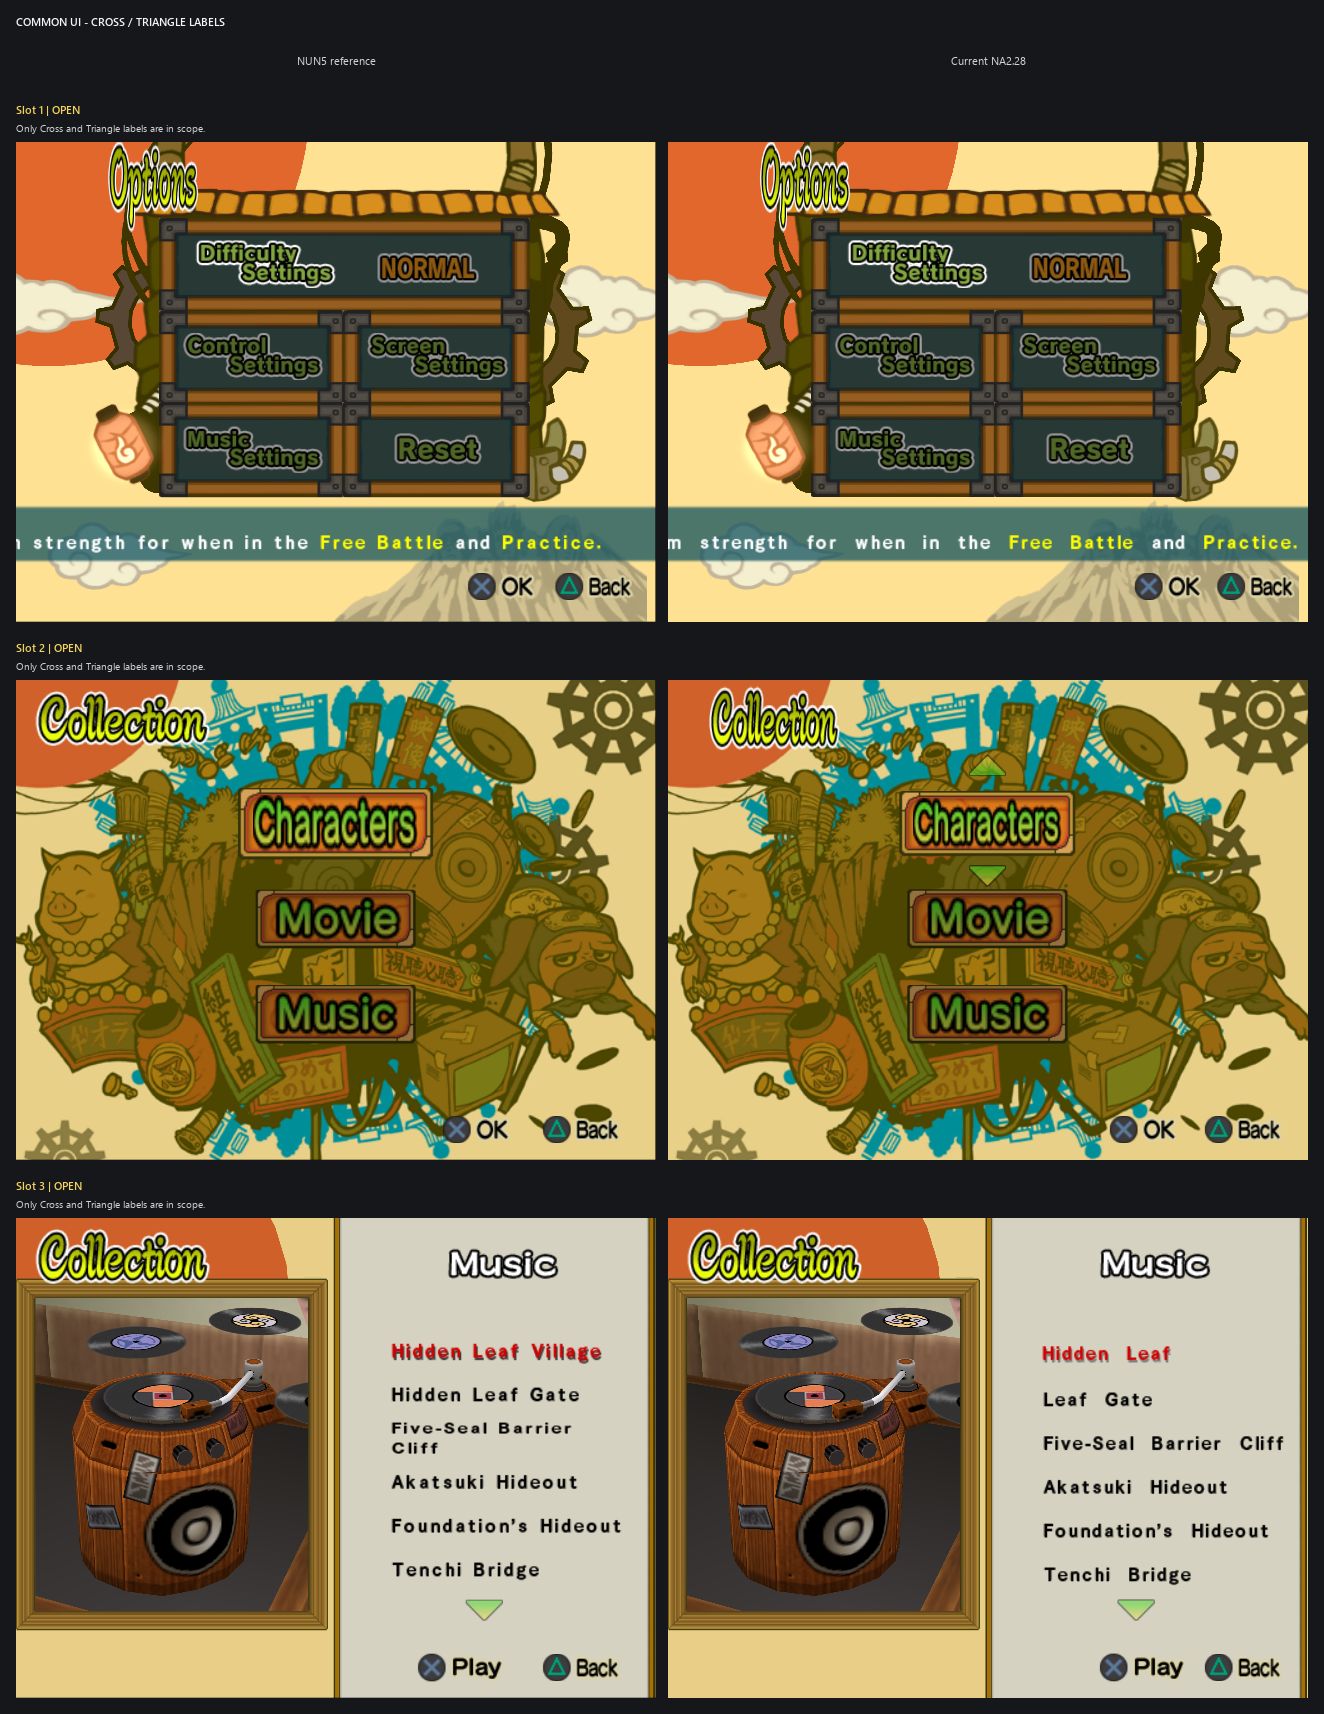
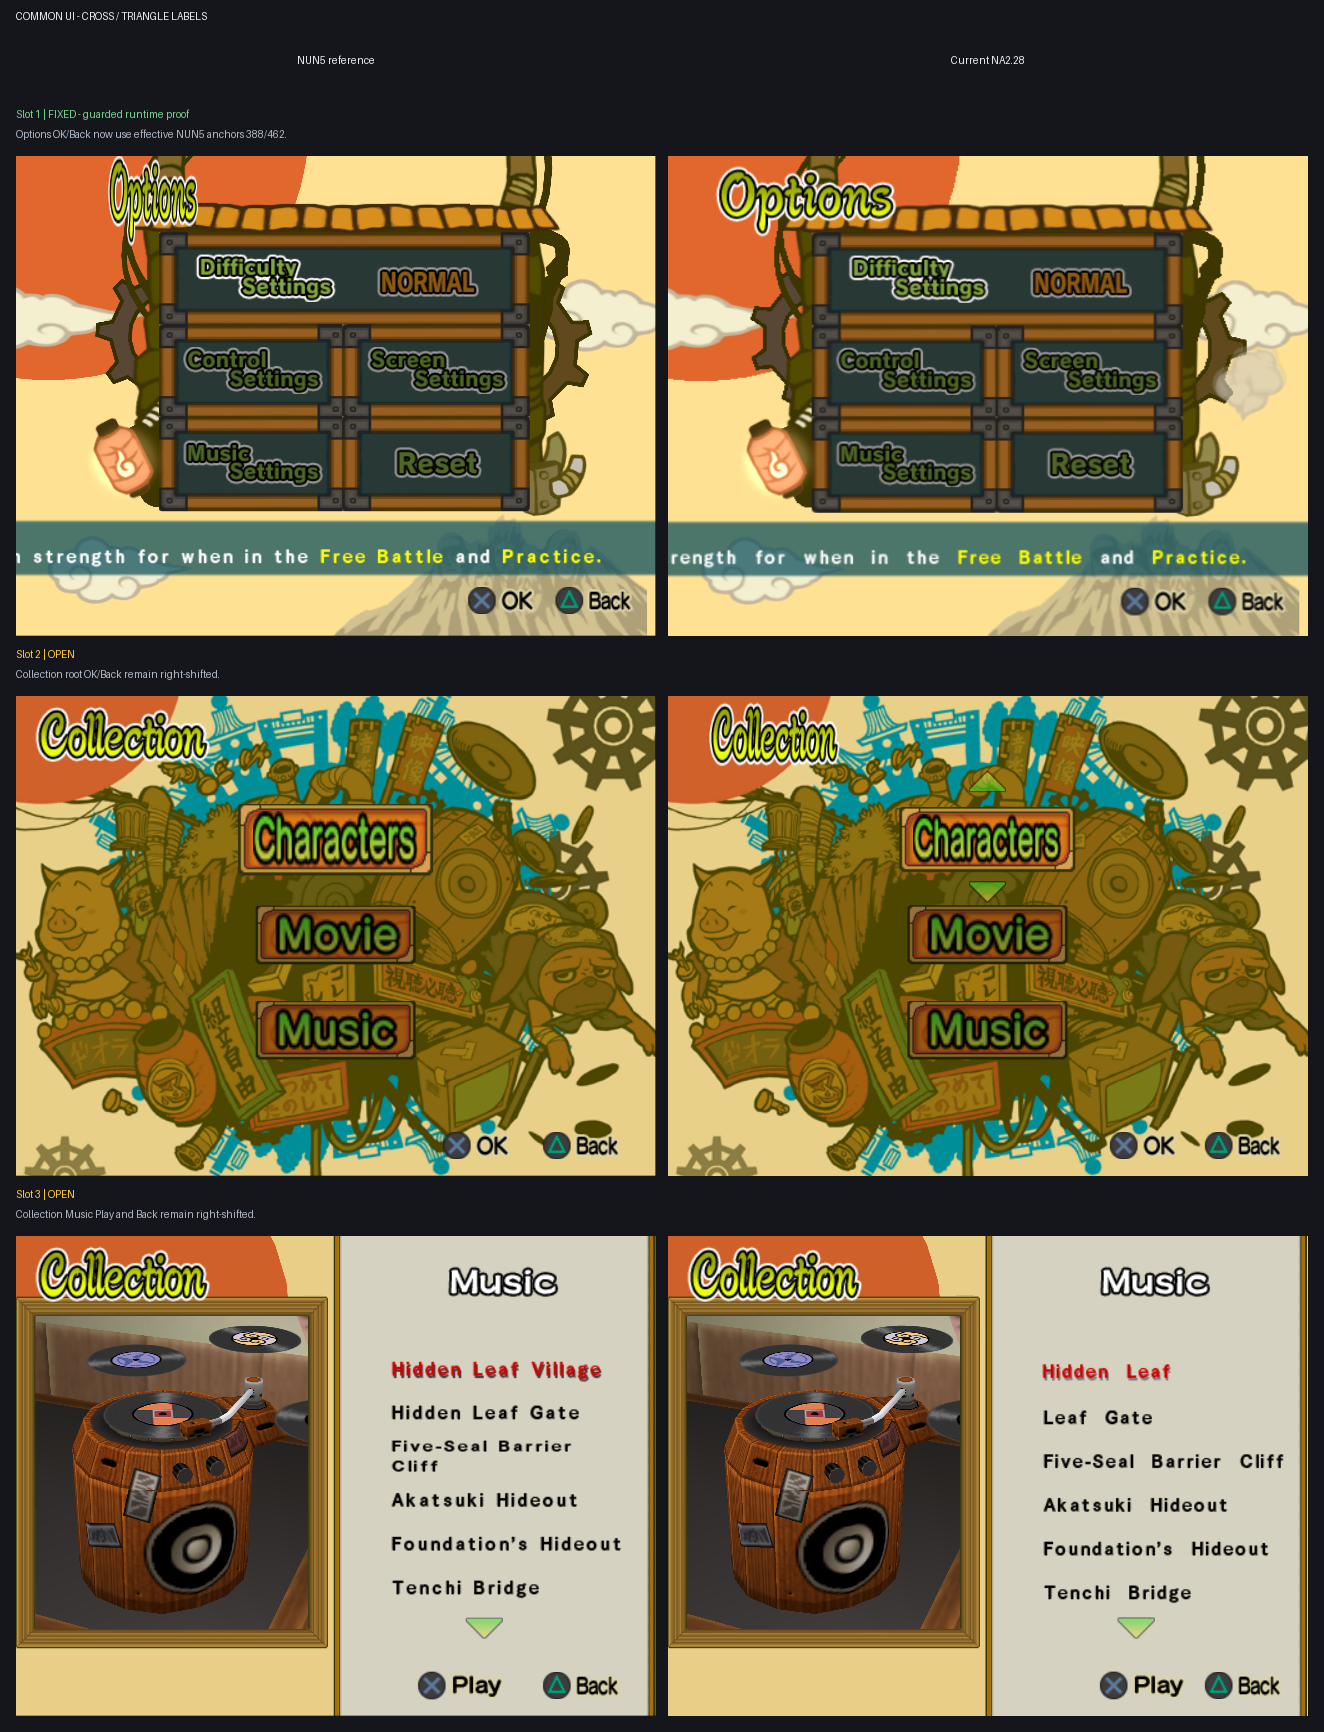
[UI Translation] Align Options common prompts

diff --git a/na2_patcher/tests/test_texture_patcher.py b/na2_patcher/tests/test_texture_patcher.py
@@ -1369,7 +1369,7 @@ class UiTextureTests(unittest.TestCase):
             ["8243023C", "C842023C"],
         )
 
-    def test_common_prompt_records_are_exact_nun5_copies(self) -> None:
+    def test_shared_common_prompt_data_and_options_anchors(self) -> None:
         repository = Path(__file__).resolve().parents[2]
         package = binary_patcher.load_package(
             repository
@@ -1384,12 +1384,24 @@ class UiTextureTests(unittest.TestCase):
                 "UI-ELF-008-02",
                 "UI-ELF-008-03",
                 "UI-ELF-008-04",
+                "UI-ELF-008-05",
+                "UI-ELF-008-06",
             ],
         )
-        self.assertTrue(all(item.operation == "copy" for item in edits))
+        self.assertEqual(
+            [item.operation for item in edits],
+            ["copy", "copy", "copy", "copy", "replace", "replace"],
+        )
         self.assertEqual(
             [item.destination_offset for item in edits],
-            [0x4D47C0, 0x4D47B0, 0x4D47B8, 0x4D47A0],
+            [
+                0x4D47C0,
+                0x4D47B0,
+                0x4D47B8,
+                0x4D47A0,
+                0x28C878,
+                0x28C89C,
+            ],
         )
         self.assertEqual(
             [item.expected_hex for item in edits],
@@ -1398,15 +1410,17 @@ class UiTextureTests(unittest.TestCase):
                 "0100310072001600",
                 "010049002A001600",
                 "2D00490046001600",
+                "C843023C",
+                "EB43023C",
             ],
         )
         self.assertEqual(
             [item.source_target_id for item in edits],
-            ["nun5_elf", "nun5_elf", "nun5_elf", "nun5_elf"],
+            ["nun5_elf", "nun5_elf", "nun5_elf", "nun5_elf", "", ""],
         )
         self.assertEqual(
             [item.source_offset for item in edits],
-            [0x4DEA20, 0x4DEA10, 0x4DEA18, 0x4DEA00],
+            [0x4DEA20, 0x4DEA10, 0x4DEA18, 0x4DEA00, None, None],
         )
         self.assertEqual(
             [item.source_expected_hex for item in edits],
@@ -1415,7 +1429,13 @@ class UiTextureTests(unittest.TestCase):
                 "0100310038001600",
                 "0000000000000000",
                 "2D00490042001600",
+                "",
+                "",
             ],
+        )
+        self.assertEqual(
+            [item.replacement_hex for item in edits[-2:]],
+            ["C243023C", "E743023C"],
         )
 
     def test_shared_options_select_anchors_are_exact_nun5_copies(self) -> None:
@@ -1574,14 +1594,14 @@ class UiTextureTests(unittest.TestCase):
             if edit.operation == "replace" and edit not in stage_scales
         ]
 
-        self.assertEqual(len(ui_edits), 277)
-        self.assertEqual(operations, {"copy": 99, "replace": 178})
+        self.assertEqual(len(ui_edits), 279)
+        self.assertEqual(operations, {"copy": 99, "replace": 180})
         self.assertEqual(
             copy_sources,
             {"nun5_elf": 64, "nun5_btl": 26, "nun5_etc": 9},
         )
         self.assertEqual(len(stage_scales), 24)
-        self.assertEqual(len(adaptations), 154)
+        self.assertEqual(len(adaptations), 156)
 
     def test_plan_applies_only_inside_the_selected_cvm_member(self) -> None:
         result = self.result("battlegauge")

diff --git a/docs/knowledge/localization/ui/options.md b/docs/knowledge/localization/ui/options.md
@@ -69,6 +69,29 @@ NUN5's localized records total 80 logical pixels:
 static slots. This preserves NA2's object ABI and compositor code while making
 every shared case-4 caller use the same geometry as NUN5.
 
+## Options-root OK and Back anchors
+
+The Options-root draw uses the same common-prompt compositor but supplies its
+OK and Back anchors from `FUN_0038c5f0`:
+
+| Prompt | NA2 runtime / file offset | NUN5 runtime / file offset | Effective NUN5 X |
+| --- | --- | --- | ---: |
+| OK | `0x0038C778` / `0x28C878` | `0x0039E18C` / `0x29E30C` | `400 - 12 = 388` |
+| Back | `0x0038C79C` / `0x28C89C` | `0x0039E1C0` / `0x29E340` | `470 - 8 = 462` |
+
+NA2 loads X=`400` and X=`470` directly with `C843023C` and `EB43023C`.
+The NUN5 homolog loads the same nominal values, converts its shared signed
+regional globals, and adds `-12` for OK and `-8` for Back before calling
+`FUN_0038bb10`. Those additions do not exist in the NA2 caller, so copying the
+nominal donor loads would not move either prompt.
+
+`UI-ELF-008` therefore stores the equivalent NA2 values X=`388`
+(`C243023C`) and X=`462` (`E743023C`) at the two guarded call sites. These are
+authored ABI ports, not literal donor copies. A task-owned slot-1 savestate
+patched with only those two words rendered the complete Cross/OK and
+Triangle/Back groups at the NUN5 positions. The existing Cancel records,
+option values, input handling, and text/font rendering were unchanged.
+
 ## Shared Controls and Music Select legend
 
 The Controls and Music Options footer functions have the same regional
@@ -169,6 +192,10 @@ footer on 2026-07-26. Confidence is **verified**.
   resident records. The hidden task-owned clone rendered Current NA2 bounds
   `165..259,412..438`, versus NUN5 `164..258,411..437`. The one-pixel phase
   difference is normal prompt pulsation.
+- A separate guarded slot-1 proof changed only the Options-root OK/Back load
+  words to their effective NUN5 anchors. Both groups match the reference; this
+  is the same regional-offset family as Mode Select and Settings, but a
+  distinct caller pair rather than a duplicate write.
 - The unrelated X/Y text spacing and the separate OK prompt were deliberately
   untouched.
 - A first guarded Music Options probe copied NUN5 common-prompt records 0 and

diff --git a/na2_patcher/features/localization/README.md b/na2_patcher/features/localization/README.md
@@ -1617,7 +1617,17 @@ one pixel of NUN5 in both axes, consistent with normal pulse timing.
 Battle Results exposed the same shared compositor's record 2: NA2 retained a
 70-pixel Next label while NUN5 uses the complete 66-pixel English record.
 The fourth edit copies that exact NUN5 record; `UI-BTL-016` supplies its NUN5
-screen anchor. The separate OK prompt and text/font rendering remain untouched.
+screen anchor.
+
+The Options-root caller also exposes the same regional footer-anchor difference
+already proven on Mode Select and the two Settings screens. NUN5 loads nominal
+OK/Back X=`400`/`470` and applies `-12`/`-8` before calling the shared
+compositor; NA2 calls it with the unadjusted values. Two authored
+same-register ports use the equivalent effective X=`388`/`462` values at NA2
+ELF offsets `0x28C878` and `0x28C89C`. A guarded task-owned slot-1 render
+matches the NUN5 prompt positions without changing the accepted Cancel
+geometry or any text/font behavior.
+
 Exact mappings, reconstruction, side effects, and runtime evidence are
 preserved in `docs/knowledge/localization/ui/options.md` and
 `docs/knowledge/localization/ui/battle.md`.

diff --git a/docs/workstreams/ui_translation/plan.md b/docs/workstreams/ui_translation/plan.md
@@ -544,7 +544,9 @@ pair and active mismatch-list entry were then removed under workstream policy.
 
 The remaining maintained mismatch list contains Battle Results screen 2
 (red rank text vertically misregistered inside the stamp), Character Items
-transition behavior, and the Cross/Triangle-label batch. The rejected
+transition behavior, and the Cross/Triangle-label batch. Within that batch,
+the Options-root Slot 1 caller now uses the proven effective NUN5 OK/Back
+anchors X=`388`/`462`; Slots 2-5 remain open. The rejected
 rank-label Y-compensation trial and exact pixel/object evidence are preserved
 in `docs/knowledge/localization/ui/battle.md`; resume from texture/CLUT binding
 or cached GS-packet evidence rather than retrying screen-space constants. The

diff --git a/docs/workstreams/ui_translation/epics/remaining_ui/README.md b/docs/workstreams/ui_translation/epics/remaining_ui/README.md
@@ -13,8 +13,10 @@ the right.
    texture/CLUT binding or cached GS packet.
 2. Character Items transition: replace the NA2.28 slide with the NUN5/base-NA2
    fade behavior.
-3. Cross/Triangle labels, paired slots 1-5: correct only the Cross and Triangle
-   labels across the five preserved screens as one shared subtask.
+3. Cross/Triangle labels, paired slots 1-5: Slot 1 Options is implemented and
+   matches the guarded NUN5 runtime proof; Slots 2-5 remain. Correct only the
+   Cross and Triangle labels across the preserved screens as one shared
+   subtask.
 
 ## Report grids
 
